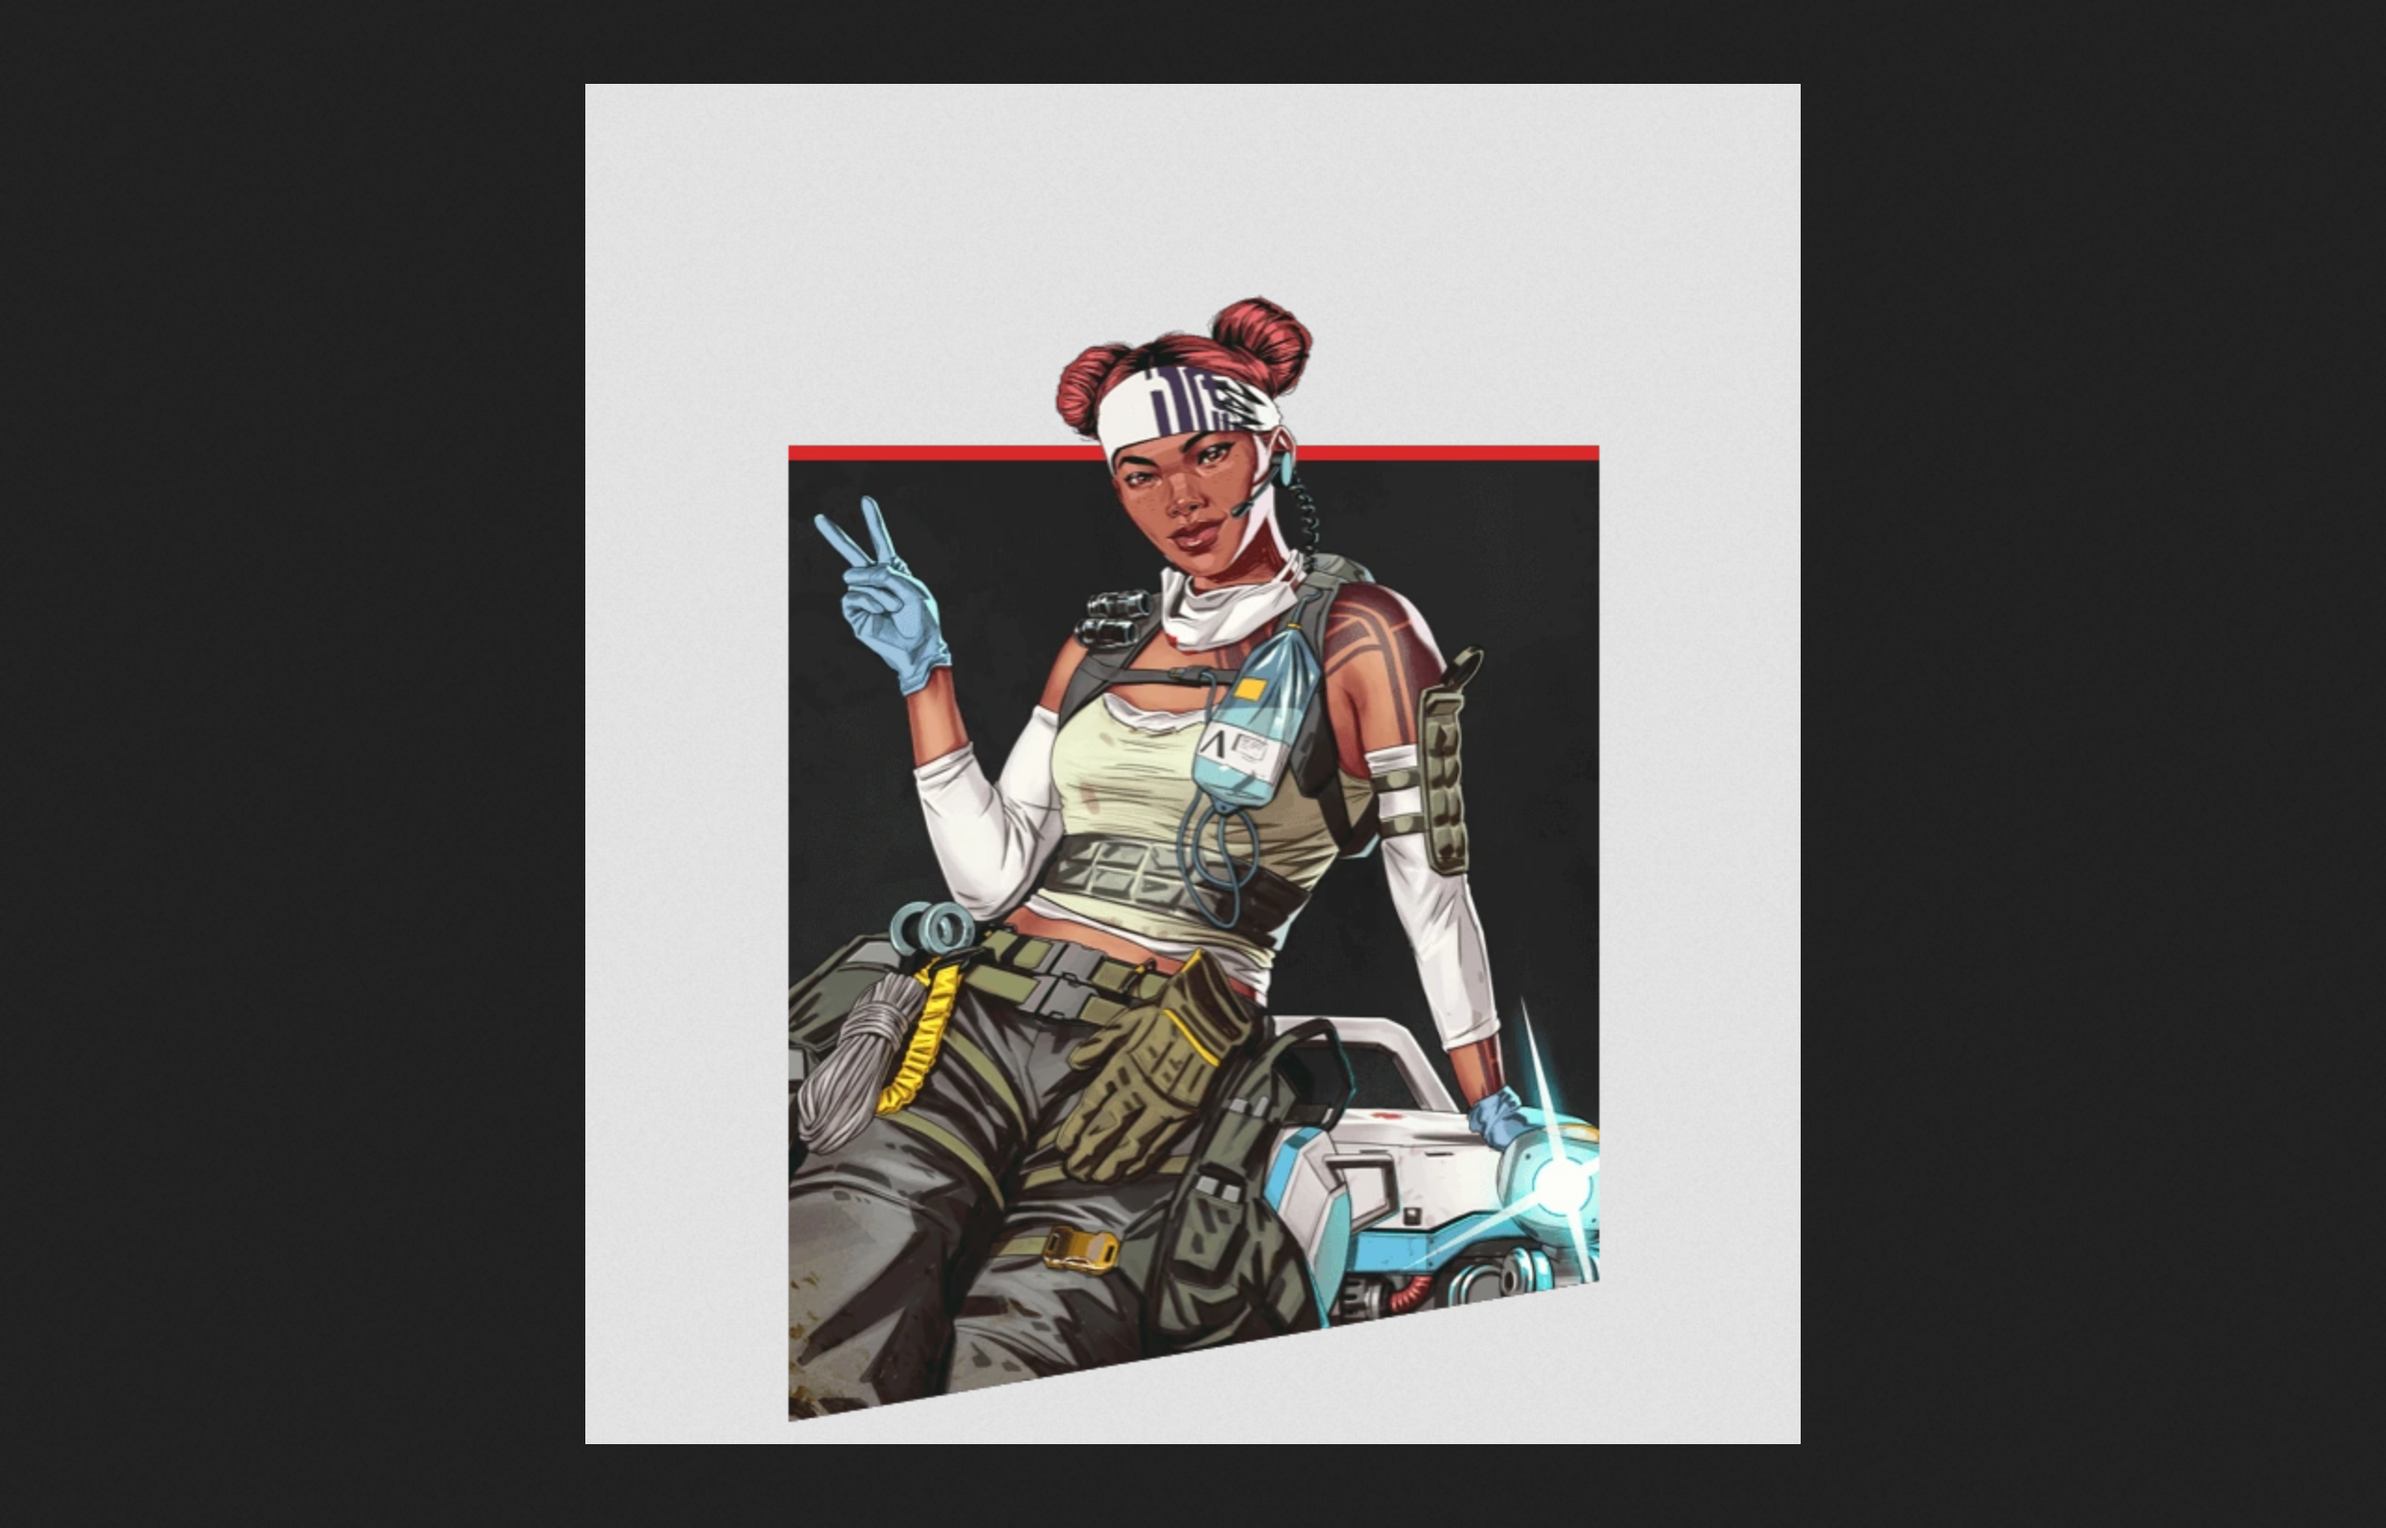
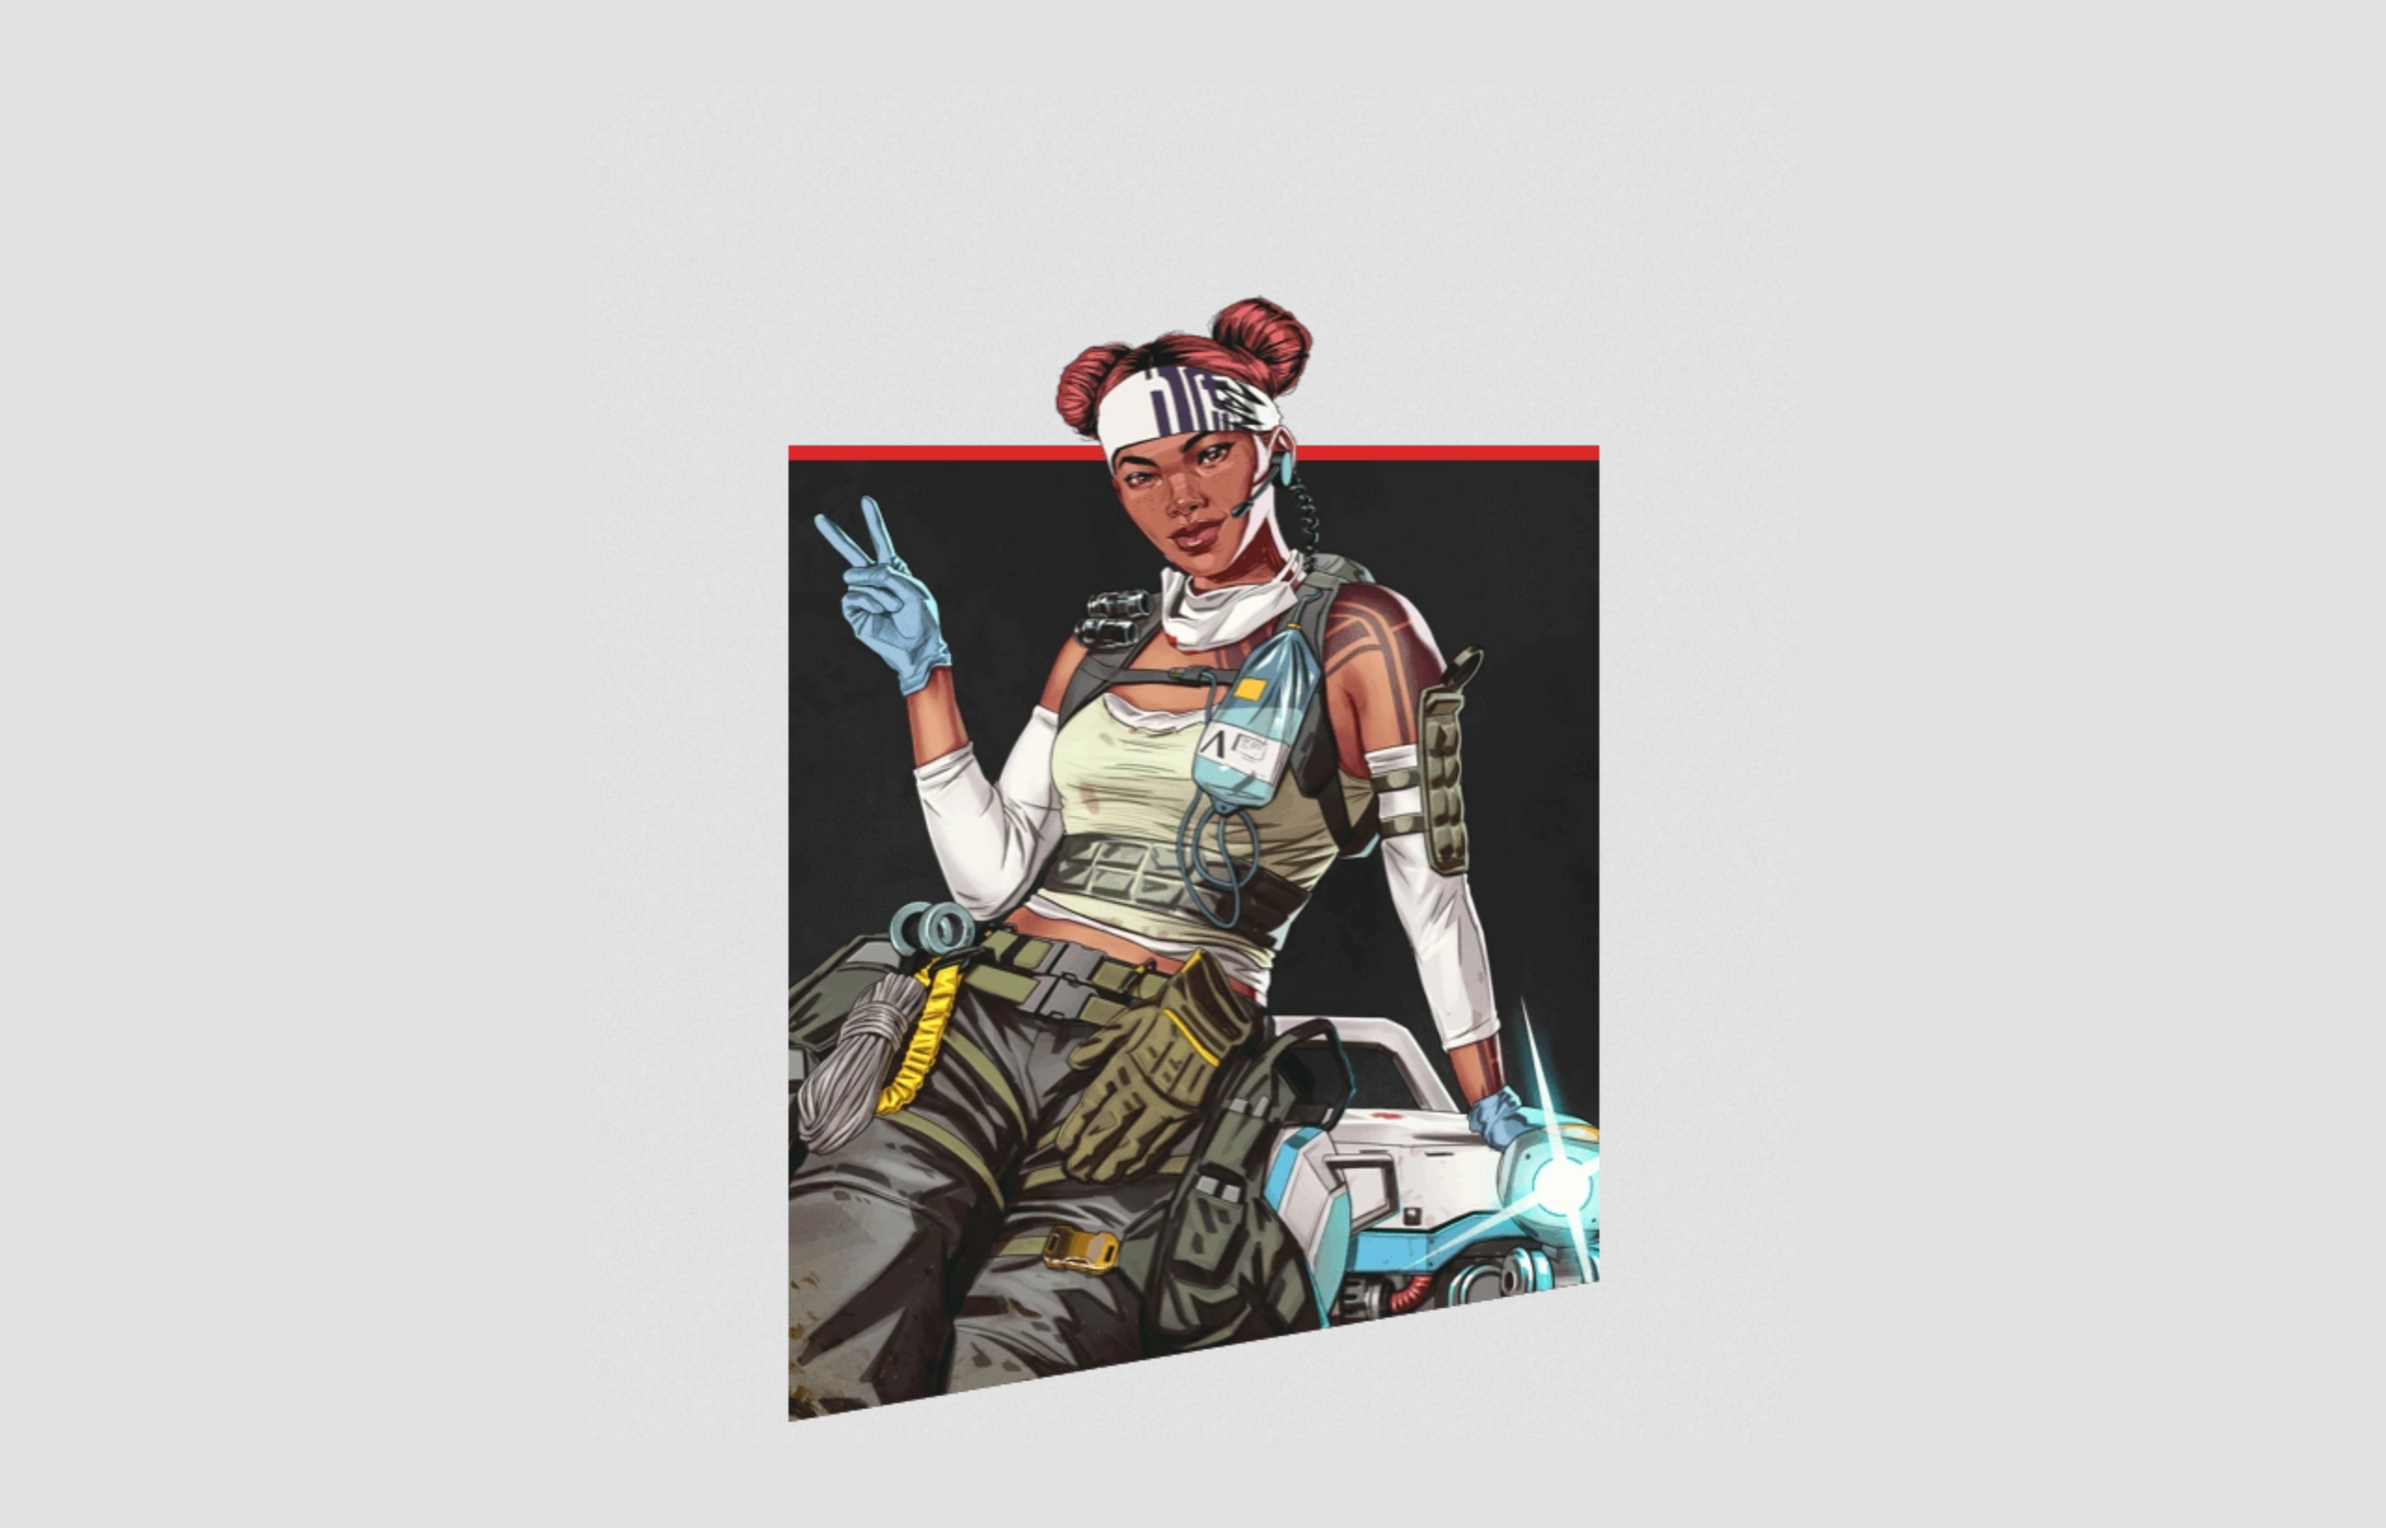
feat: merging of background in legend images

diff --git a/db_initial_data_setup/legends_setup.py b/db_initial_data_setup/legends_setup.py
@@ -5,6 +5,7 @@ import requests
 import json
 
 from constants import *
+from scrapers.utils.utils import merge_legend_img_bg
 
 
 def legends_data_from_file(file):
@@ -91,13 +92,16 @@ def post_legends(url, data):
 
 
 def setup():
-    url = LOCAL_BASE_API_URL  # Change this url depending on which base url u want to use
+    url = HEROKU_DEV_BASE_API_URL  # Change this url depending on which base url u want to use
         # (later rework for auto data adding)
 
     data = legends_data_from_file(LEGENDS_JSON)
 
+    # Prep images
+    # for legend in data['legends']:
+    #     merge_legend_img_bg(os.path.join(LEGEND_IMAGES_DIR, f'{legend["name"]}.png'))
+
     post_legends(url + '/legends/', data)
-    ...
 
 
 if __name__ == '__main__':

diff --git a/scrapers/utils/utils.py b/scrapers/utils/utils.py
@@ -6,6 +6,7 @@ from dataclasses import (
     asdict
 )
 import json
+import cv2
 
 from selenium import webdriver
 from selenium.common import WebDriverException
@@ -64,3 +65,17 @@ class BaseDataclass:
             data[field.name] = getattr(self, field.name)
 
         return data
+
+
+def merge_legend_img_bg(path):
+    img = cv2.imread(path)
+
+    h, w = img.shape[:2]
+
+    white_bg = [225, 225, 225]
+    img[0:91, 0:w] = white_bg
+    img[0:h, 0:630] = white_bg
+    img[0:h, w-630:w] = white_bg
+    img[h-91:h, 0:w] = white_bg
+
+    cv2.imwrite(path, img)
